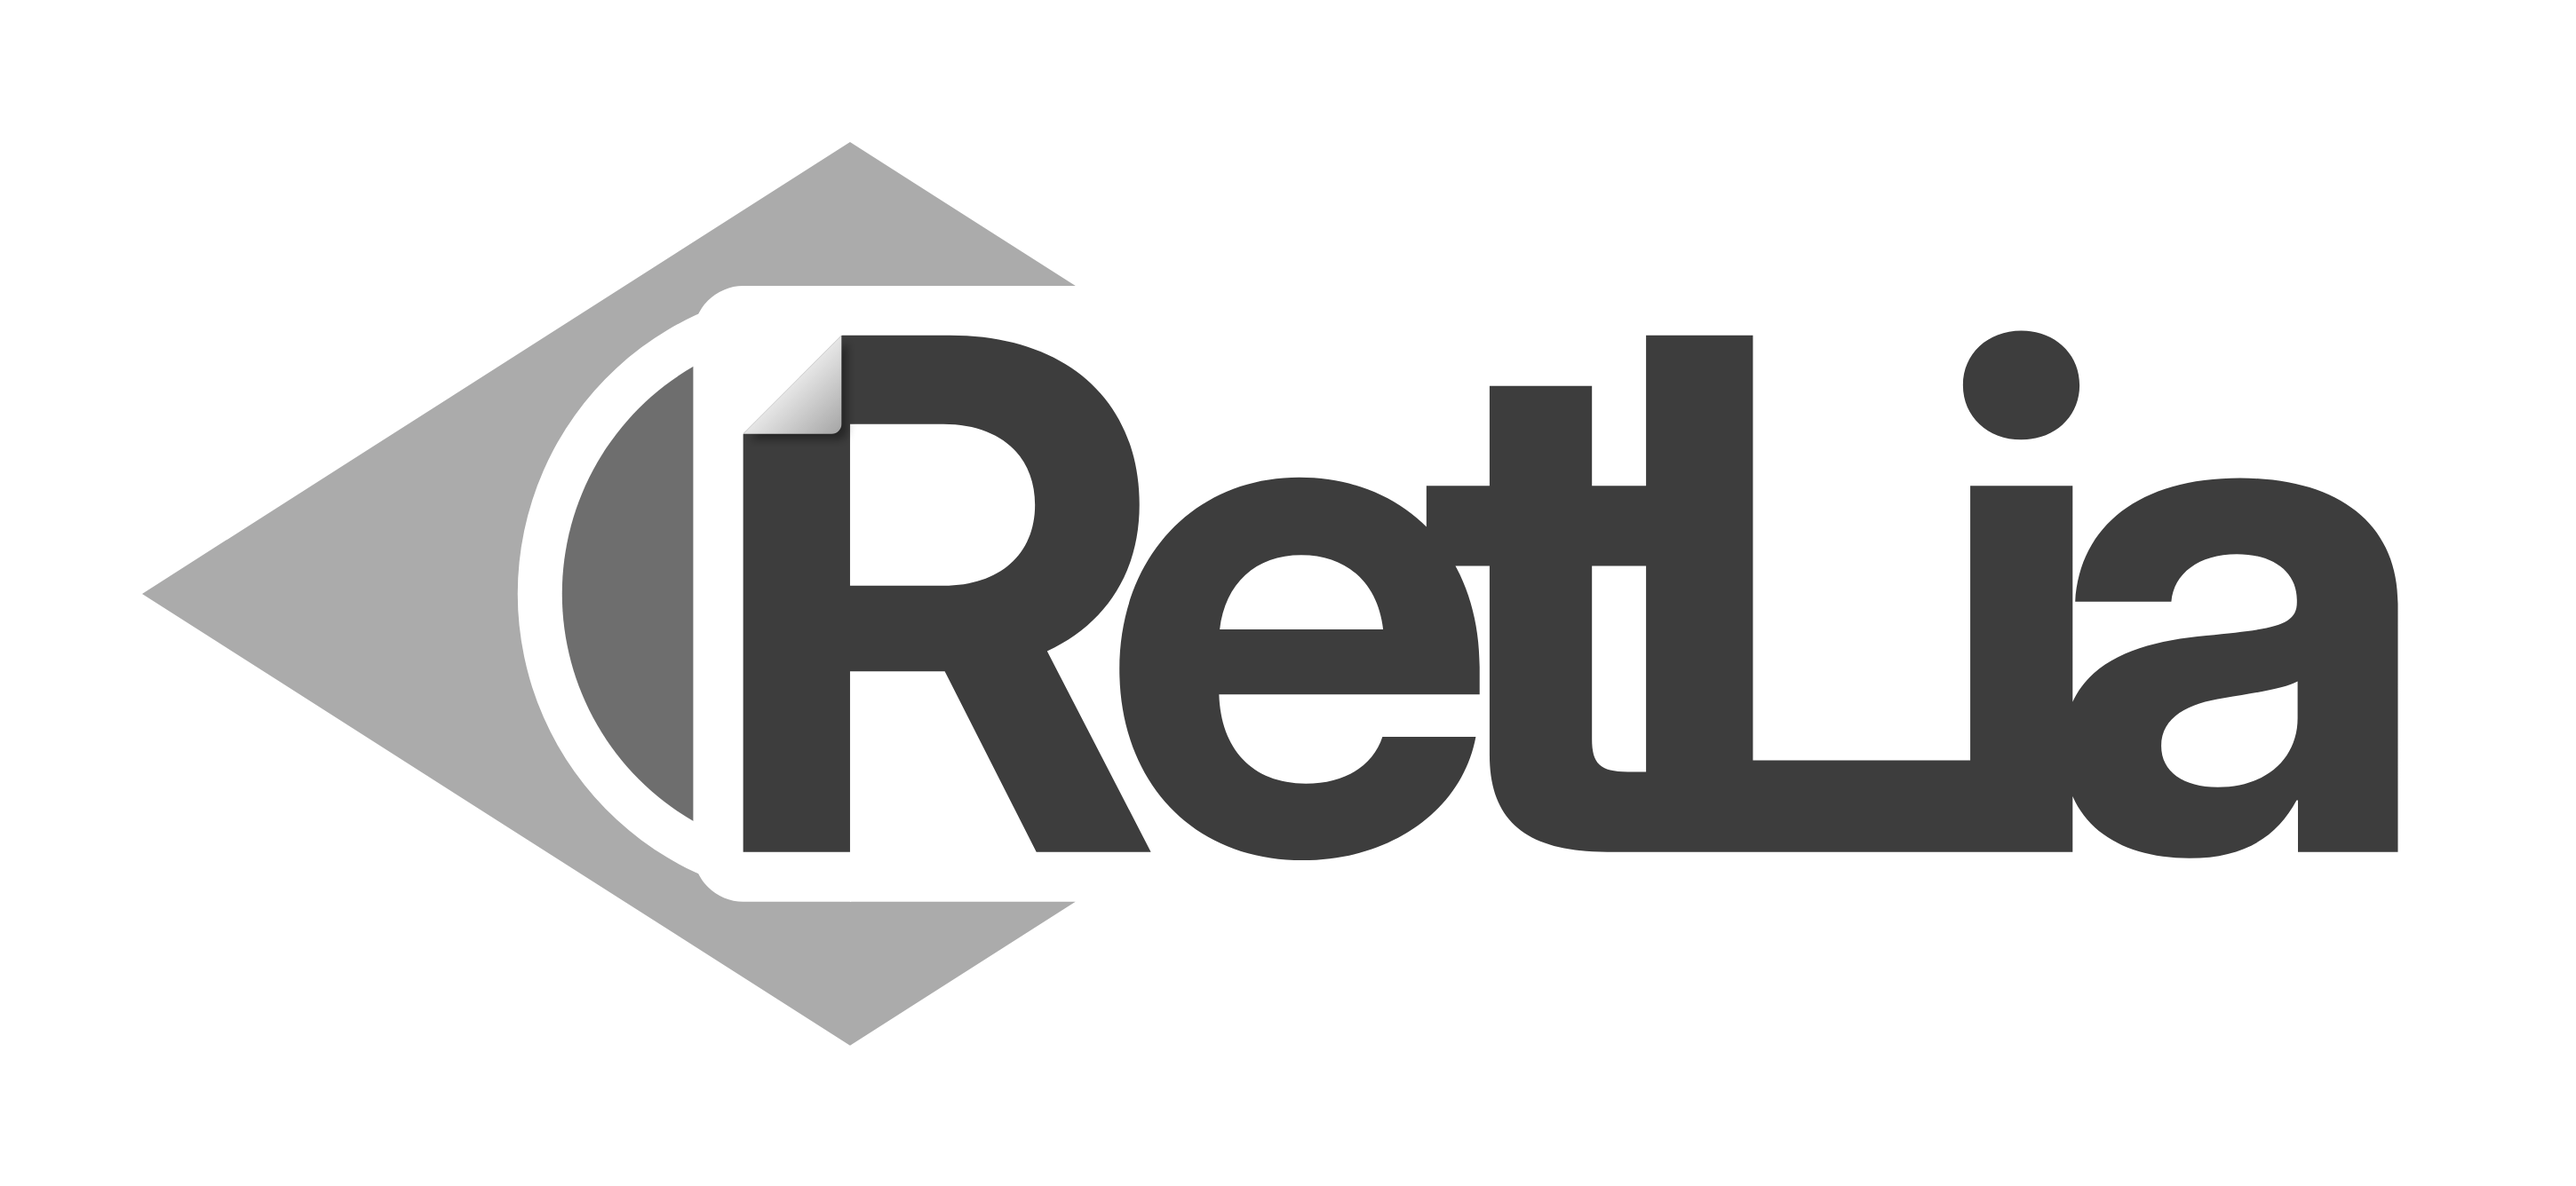
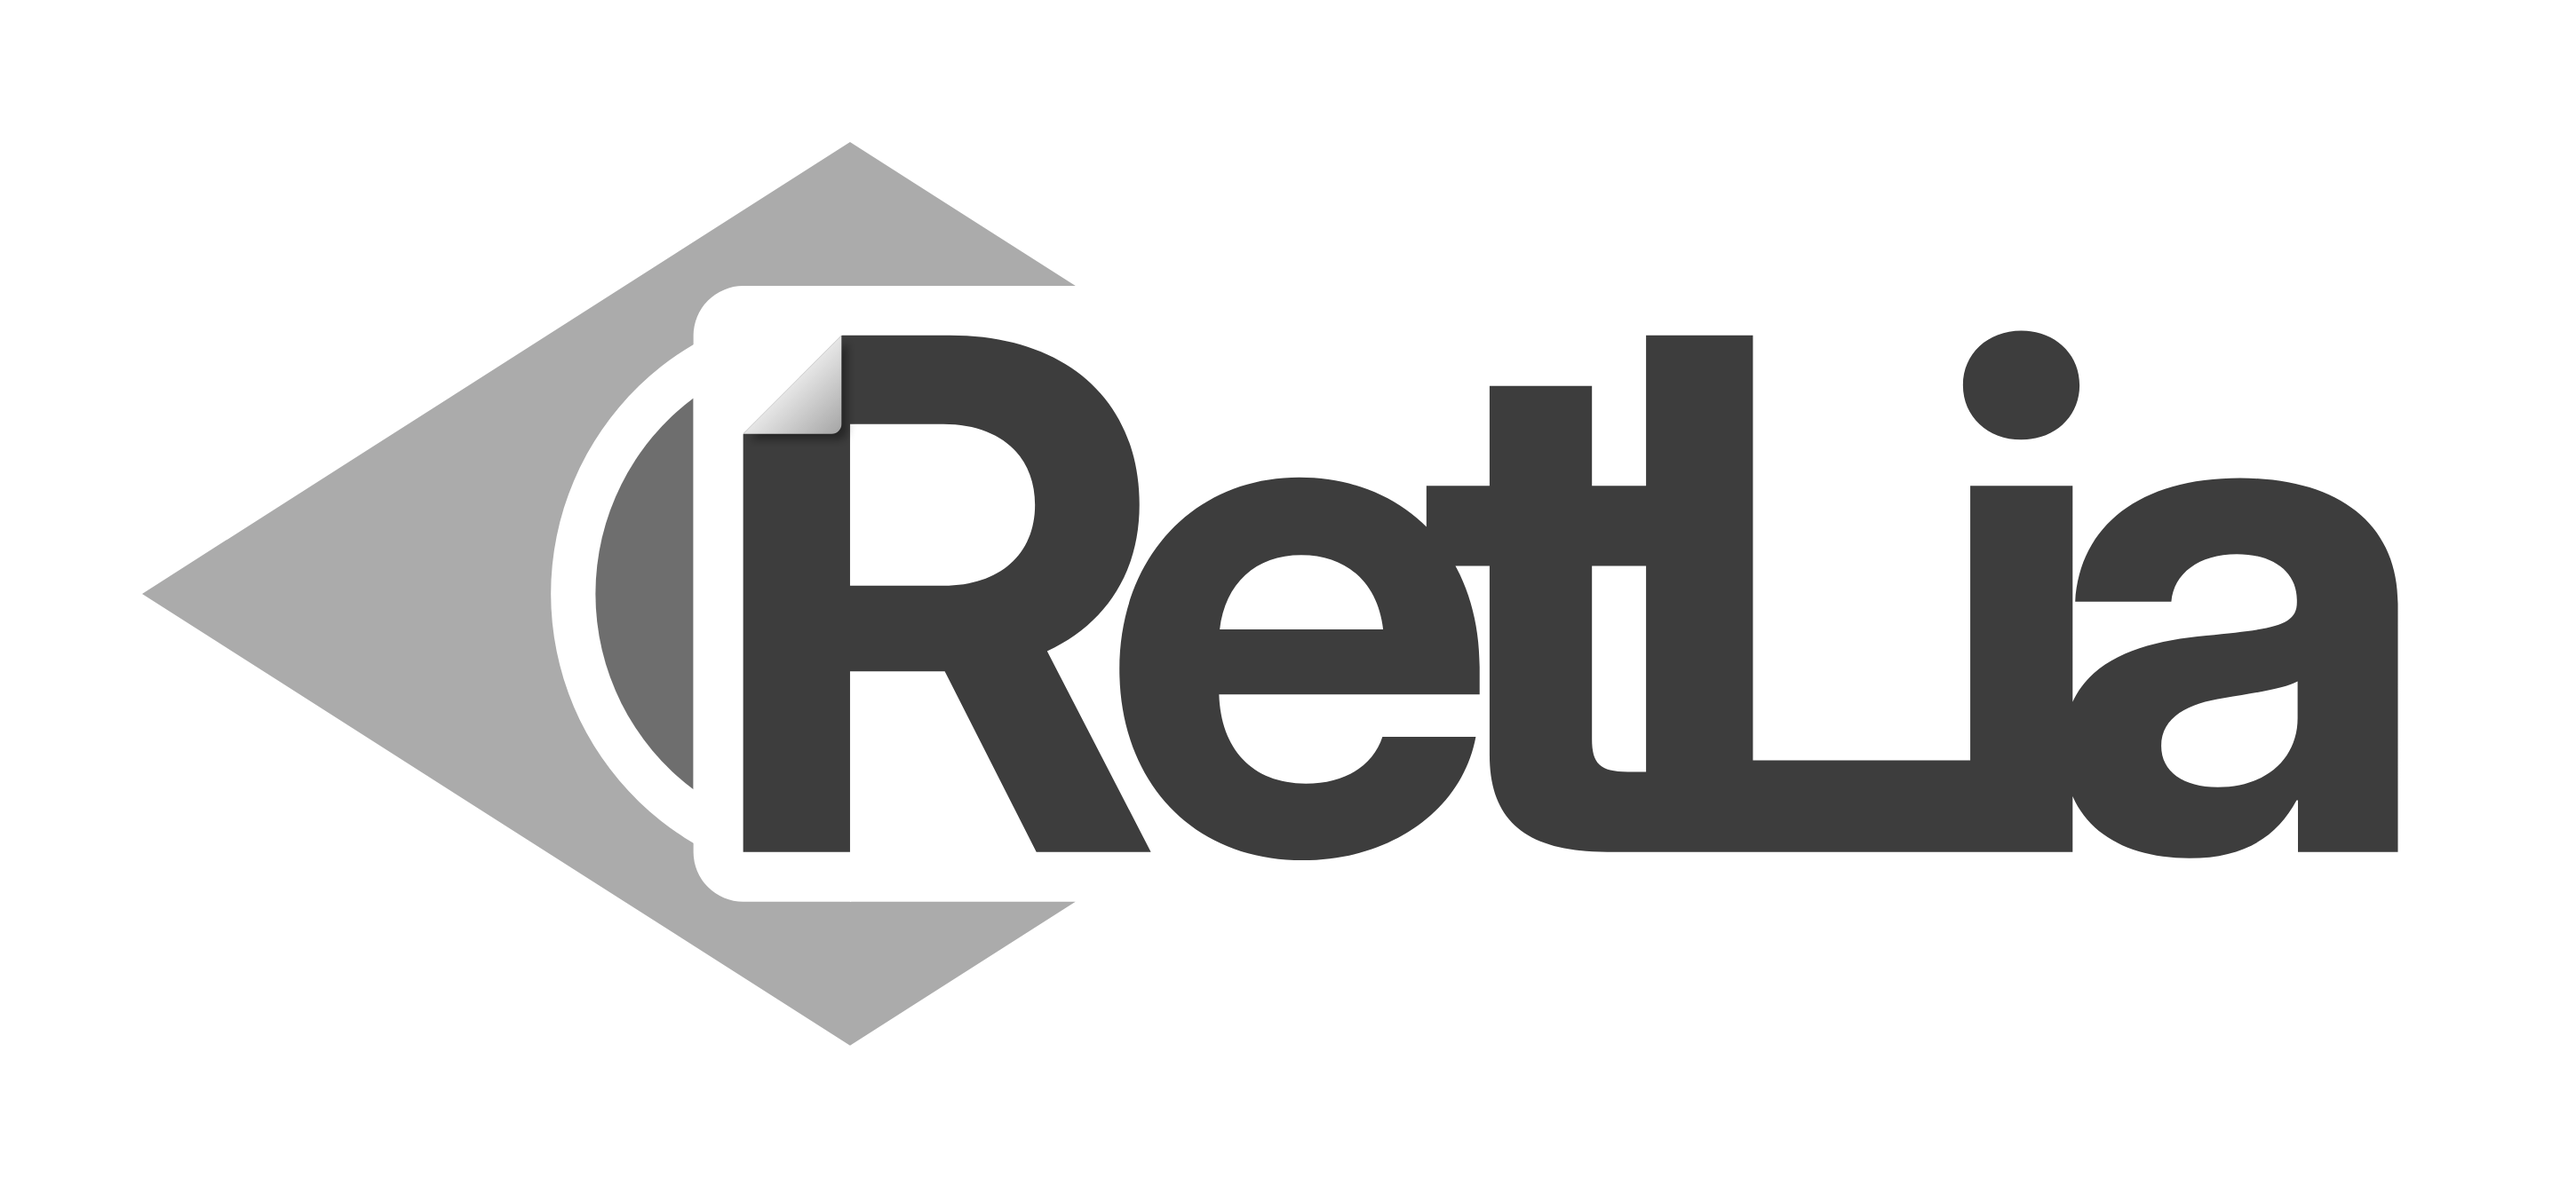
RetLia lateral: restore globe to the reference size (0.82 radius, 40% visible)
Claude-Session: https://claude.ai/code/session_01S4SgoPNwAJLDoX8PJdvnWV

Changed region(s): [[0.1862, 0.2762, 0.2793, 0.7365]]

diff --git a/brand/retlia/gerar.py b/brand/retlia/gerar.py
@@ -110,7 +110,7 @@ def lateral(dark=False, loz=None, ball=None, text=None, fold=False, flapc=None):
     tx=flat-lsb-stem
     # bola: corpo sólido (o globo), separado do losango pela mesma borda branca do R;
     # só uma fração aparece à esquerda do R
-    BALL_F, CAP_K, RING_K = 0.88, 0.50, 0.90   # tamanho da bola, fração dela que aparece, espessura do anel
+    BALL_F, CAP_K, RING_K = 0.82, 0.40, 0.90   # tamanho da bola, fração dela que aparece, espessura do anel
     Rb=(H/2)*3.5/5.3*BALL_F       # raio da bola (a da bandeira = 1.0)
     ring=border*RING_K            # anel branco da bola, um pouco mais fino que a borda do R
     Rw=Rb+ring                    # recorte branco em volta da bola
